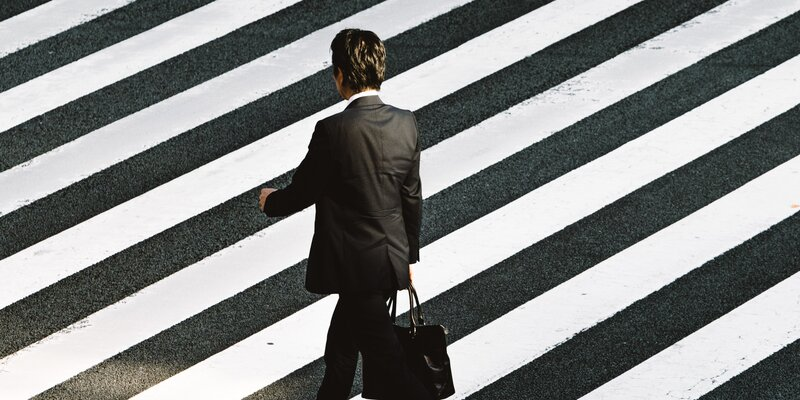
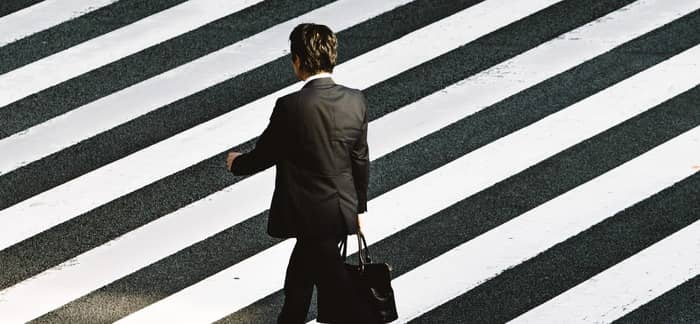
feat : images slide

diff --git a/assets/style.min.css b/assets/style.min.css
@@ -1,1 +1,1 @@
-body{max-width:1920px;margin:auto}*{font-family:'Inter';font-style:normal}.top-header{background-color:#fff;position:sticky;top:0;z-index:1000;display:flex;justify-content:space-between;padding-inline:100px;padding-block:30px;align-items:center}.top-header .name{font-size:26px}.nav ul{display:flex;list-style-type:none;font-size:14px;margin-bottom:0}.nav li{padding-inline:10px}.nav a{text-decoration:none;color:#000}.social-link img{width:20px}#about{display:flex;background-color:#F6D2B8;padding-inline:100px;padding-block:100px;position:relative}.picture.left::before{content:' ';background-color:#E5975F;width:374px;height:329px;position:absolute;bottom:0;left:0;z-index:-1}.picture{flex:1;margin:0 20px;z-index:0}.picture img{width:100%}#about-me{flex:2}.about-me__title{margin-top:1em;margin-bottom:60px;font-size:30px}.about-me__introduction{font-family:'Spectral';font-weight:800;font-style:italic;width:60%}#about-me p{width:80%;font-size:14px}.title{text-align:center;padding-block:2em}.gallery .nav{justify-content:center}.nav-pills .nav-link.active,.active-tag,.nav-pills .show>.nav-link{color:#fff!important;background-color:#BEB45A!important;border-radius:0!important}.nav-pills .nav-link{color:#000}.item-column{position:relative;margin-bottom:0!important;padding:0}.item-column::after{content:"";display:block;padding-bottom:100%}.gallery-item{position:absolute;width:100%;height:100%;object-fit:cover;padding:.5em}.mg-prev,.mg-next{width:30px;height:30px;border-radius:0%;justify-content:center;align-items:center;display:flex;font-size:24px}.quote{font-family:'Spectral';font-style:italic;width:70%;margin:auto;padding-block:3em}.quote__text{font-family:Spectral;font-style:italic;font-weight:300}.quote__author{font-family:Spectral;font-weight:800;font-size:22px}#services{margin:auto;background-color:#A8D5D8;position:relative}#services .container::before{content:' ';background-color:#1C6474;position:absolute;width:100%;height:30%;bottom:0;left:0;z-index:0}#services .container{justify-content:space-between;display:flex;padding:2em 0}.service{background-color:#fff;max-width:390px;width:30%;height:337px;padding:1em;display:flex;flex-direction:column;justify-content:space-between;z-index:1}#contact{margin:auto;background-color:#D8D3A8;position:relative;padding-inline:100px;padding-block:100px}#contact .container{display:flex}.picture.right::before{content:' ';background-color:#BEB45A;width:374px;height:329px;position:absolute;bottom:0;right:0;z-index:-1}.form-container{flex:2}form{display:flex;flex-direction:column;width:70%;align-items:flex-start}form input{width:100%;background-color:transparent;border:solid 1px;height:2.5em;margin-bottom:20px}form textarea{width:100%;background-color:transparent;border:solid 1px;height:5em;line-height:2.5em;font-size:1.2em;margin-bottom:20px}input[type="submit"]{background-color:#BEB45A;padding:.5em 1em}@media all and (max-width:1180px){.picture{flex:2}#about,#contact .container{align-items:center}.about-me__title{margin-top:0;margin-bottom:1em}#about-me h6,#about-me p{width:100%}}@media all and (max-width:1000px){#about{flex-direction:column}.picture{width:50%}.picture.left::before{width:100%;height:30%;position:absolute;bottom:auto;top:0;left:0;z-index:-1}.about-me__title{text-align:center;margin-top:1em}#services .container{flex-direction:column}.service{width:100%;max-width:100%;height:auto;margin:2em 0}.service__description{margin-bottom:1em}#services .container::before{width:30%;height:100%;bottom:0;right:0;left:auto;z-index:0}#contact .container{flex-direction:column}#contact .picture.right{margin-top:1em}.picture.right::before{width:100%;height:30%;position:absolute;bottom:0;right:0;z-index:-1}}@media all and (max-width:650px){.top-header{flex-direction:column;padding-inline:0}.top-header .nav,.top-header .nav ul{width:100%;padding:0 0 0 0}.top-header .nav li{flex:1;padding-block:1em;text-align:center}.picture.left::before,.picture.right::before{height:150px}#services .container{align-items:center}.service{max-width:90%}#about,#contact{padding-inline:2em;padding-block:2em}form{width:100%}.picture{width:80%}}
+body{max-width:1920px;margin:auto}*{font-family:'Inter';font-style:normal}img{object-fit: fill;}.top-header{background-color:#fff;position:sticky;top:0;z-index:1000;display:flex;justify-content:space-between;padding-inline:100px;padding-block:30px;align-items:center}.top-header .name{font-size:26px}.nav ul{display:flex;list-style-type:none;font-size:14px;margin-bottom:0}.nav li{padding-inline:10px}.nav a{text-decoration:none;color:#000}.social-link img{width:20px}#about{display:flex;background-color:#F6D2B8;padding-inline:100px;padding-block:100px;position:relative}.picture.left::before{content:' ';background-color:#E5975F;width:374px;height:329px;position:absolute;bottom:0;left:0;z-index:-1}.picture{flex:1;margin:0 20px;z-index:0}.picture img{width:100%}#about-me{flex:2}.about-me__title{margin-top:1em;margin-bottom:60px;font-size:30px}.about-me__introduction{font-family:'Spectral';font-weight:800;font-style:italic;width:60%}#about-me p{width:80%;font-size:14px}.title{text-align:center;padding-block:2em}.gallery .nav{justify-content:center}.nav-pills .nav-link.active,.active-tag,.nav-pills .show>.nav-link{color:#fff!important;background-color:#BEB45A!important;border-radius:0!important}.nav-pills .nav-link{color:#000}.item-column{position:relative;margin-bottom:0!important;padding:0}.item-column::after{content:"";display:block;padding-bottom:100%}.gallery-item{position:absolute;width:100%;height:100%;object-fit:cover;padding:.5em}.mg-prev,.mg-next{width:30px;height:30px;border-radius:0%;justify-content:center;align-items:center;display:flex;font-size:24px}.quote{font-family:'Spectral';font-style:italic;width:70%;margin:auto;padding-block:3em}.quote__text{font-family:Spectral;font-style:italic;font-weight:300}.quote__author{font-family:Spectral;font-weight:800;font-size:22px}#services{margin:auto;background-color:#A8D5D8;position:relative}#services .container::before{content:' ';background-color:#1C6474;position:absolute;width:100%;height:30%;bottom:0;left:0;z-index:0}#services .container{justify-content:space-between;display:flex;padding:2em 0}.service{background-color:#fff;max-width:390px;width:30%;height:337px;padding:1em;display:flex;flex-direction:column;justify-content:space-between;z-index:1}#contact{margin:auto;background-color:#D8D3A8;position:relative;padding-inline:100px;padding-block:100px}#contact .container{display:flex}.picture.right::before{content:' ';background-color:#BEB45A;width:374px;height:329px;position:absolute;bottom:0;right:0;z-index:-1}.form-container{flex:2}form{display:flex;flex-direction:column;width:70%;align-items:flex-start}form input{width:100%;background-color:transparent;border:solid 1px;height:2.5em;margin-bottom:20px}form textarea{width:100%;background-color:transparent;border:solid 1px;height:5em;line-height:2.5em;font-size:1.2em;margin-bottom:20px}input[type="submit"]{background-color:#BEB45A;padding:.5em 1em}@media all and (max-width:1180px){.picture{flex:2}#about,#contact .container{align-items:center}.about-me__title{margin-top:0;margin-bottom:1em}#about-me h6,#about-me p{width:100%}}@media all and (max-width:1000px){#about{flex-direction:column}.picture{width:50%}.picture.left::before{width:100%;height:30%;position:absolute;bottom:auto;top:0;left:0;z-index:-1}.about-me__title{text-align:center;margin-top:1em}#services .container{flex-direction:column}.service{width:100%;max-width:100%;height:auto;margin:2em 0}.service__description{margin-bottom:1em}#services .container::before{width:30%;height:100%;bottom:0;right:0;left:auto;z-index:0}#contact .container{flex-direction:column}#contact .picture.right{margin-top:1em}.picture.right::before{width:100%;height:30%;position:absolute;bottom:0;right:0;z-index:-1}}@media all and (max-width:650px){.top-header{flex-direction:column;padding-inline:0}.top-header .nav,.top-header .nav ul{width:100%;padding:0 0 0 0}.top-header .nav li{flex:1;padding-block:1em;text-align:center}.picture.left::before,.picture.right::before{height:150px}#services .container{align-items:center}.service{max-width:90%}#about,#contact{padding-inline:2em;padding-block:2em}form{width:100%}.picture{width:80%}}

diff --git a/index.html b/index.html
@@ -4,7 +4,7 @@
 <head>
 	<meta name="viewport" content="width=device-width, initial-scale=1.0">
 	<meta name="description" content="Photographe professionnelle basé a Bordeaux, Shooting, Mariages, anniverssaire et pour tous les evenements que vous ne souhaitez pas oublier"/>
-	<link rel="stylesheet" href="./assets/bootstrap/bootstrap.css">
+	<link rel="stylesheet" href="./assets/bootstrap/bootstrap.min.css">
 	<link rel="stylesheet" href="./assets/style.min.css">
 	<link rel="preconnect" href="https://fonts.googleapis.com">
 	<link rel="preconnect" href="https://fonts.gstatic.com" crossorigin>
@@ -12,8 +12,6 @@
 	<meta charset="UTF-8">
 	<script defer src="./assets/bootstrap/bootstrap.bundle.min.js"></script>
 	<script defer src="https://code.jquery.com/jquery-3.4.1.min.js" integrity="sha256-CSXorXvZcTkaix6Yvo6HppcZGetbYMGWSFlBw8HfCJo=" crossorigin="anonymous"></script>
-	<script defer src="./assets/maugallery.min.js"></script>
-	<script defer src="./assets/script.min.js"></script>
 	<meta name="robots" content="index,follow" />
 	<title>Photographe professionnelle à Bordeaux : Nina Carducci</title>
     <!-- <link
@@ -96,7 +94,7 @@
 
 			} 
 	</script> -->
-	<script type="application/ld+json">
+	<script defer type="application/ld+json">
 		{
 	 "@context": "http://schema.org",
 	  "@Graph":[
@@ -161,7 +159,7 @@
  </script>
 	<!-- Google tag (gtag.js) -->
 <script async src="https://www.googletagmanager.com/gtag/js?id=G-X1W525J7VJ"></script>
-<script>
+<script defer>
   window.dataLayer = window.dataLayer || [];
   function gtag(){dataLayer.push(arguments);}
   gtag('js', new Date());
@@ -192,7 +190,7 @@
 		</div>
 		<div class="carousel-inner">
 			<div class="carousel-item active">
-				<img src="./assets/images/slider/asianMan-on-passage-pieton-photoMontage.jpg" class="d-block w-100" alt="personne vue de dos sur passage pietons">
+				<img src="./assets/images/slider/asianMan-on-passage-pieton-photoMontage.jpg" class="d-block w-100" alt="personne vue de dos sur passage pietons" >
 			</div>
 			<div class="carousel-item">
 				<img src="./assets/images/slider/crowd-photo-editing.jpg" class="d-block w-100" alt="foule de supporteur">
@@ -310,5 +308,7 @@
 		</div>
 	</div>
 </div>
+<script defer src="./assets/maugallery.min.js"></script>
+<script defer src="./assets/script.min.js"></script>
 </body>
 </html>
